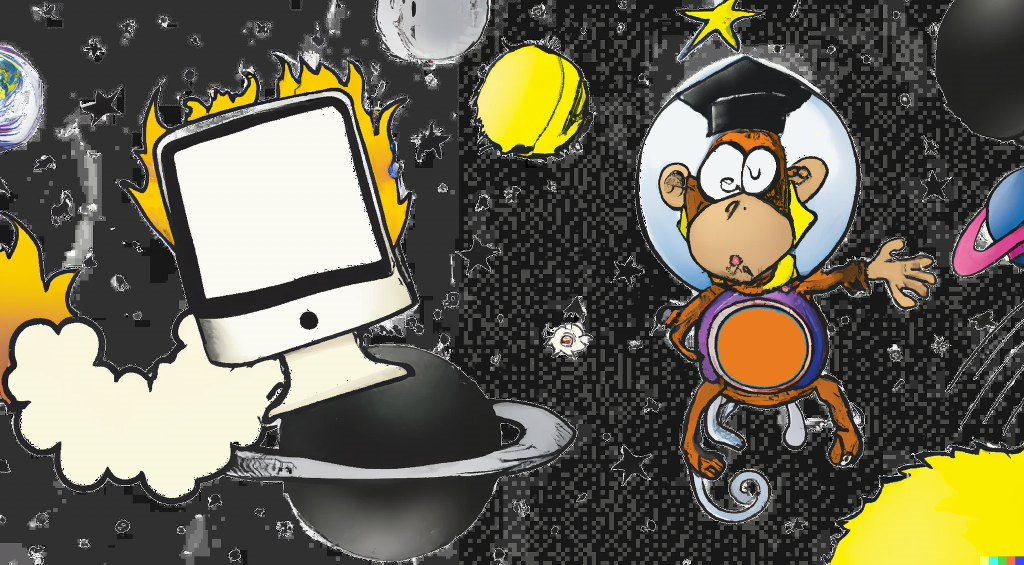
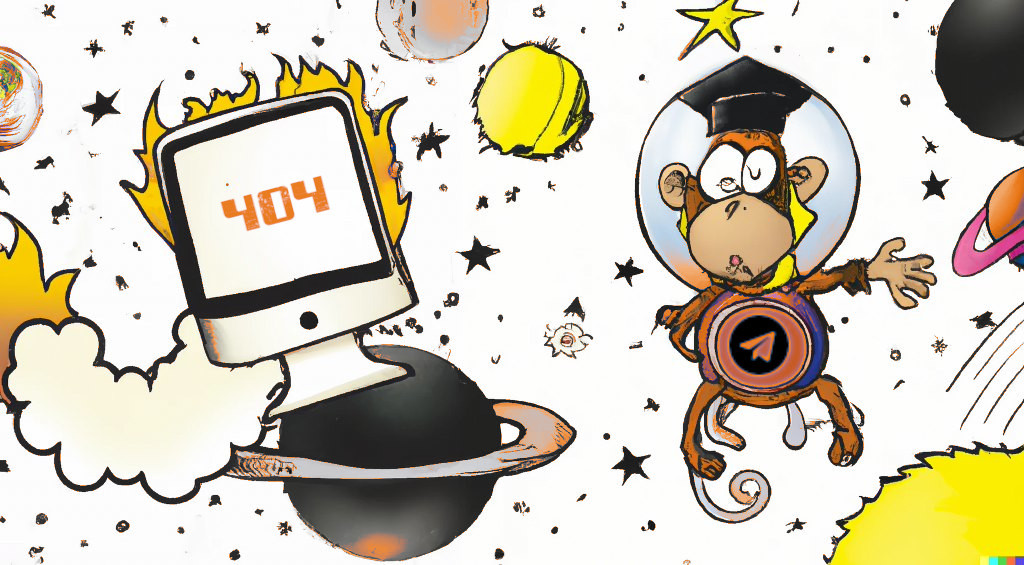
404

diff --git a/css/errorpage.css b/css/errorpage.css
@@ -1,5 +1,5 @@
 @import url('https://fonts.googleapis.com/css2?family=Montserrat:wght@200;400');
-
+@import url('https://fonts.googleapis.com/css2?family=Fredoka+One&family=Roboto+Slab&display=swap');
 * {
     padding: 0;
     margin: 0;
@@ -10,43 +10,43 @@ html {
     font-size: 16px;
 }
 
-
 body {
-    font-family: 'Montserrat', sans-serif;
-    background-color: #87a933;
-    background: linear-gradient(to bottom right, #333538, rgba(105, 97, 97, 0.3));
+    font-family: 'Roboto Slab', sans-serif;
+    /*background-color: #87a933;*/
+    /*background: linear-gradient(to bottom right, #333538, rgba(105, 97, 97, 0.3));*/
     color: #c0561b;
     height: 100vh;
     display: flex;
-    align-items: center;
+    flex-direction: row;
+    align-items: flex-end;
     justify-content: center;
     text-align: center;
-    background-image: url("/pictures/aap.png");
+    background-image: url("/pictures/aap_mid.jpg");
     background-repeat: no-repeat;
+    background-size: cover;
+    background-position: left top;
+}
 
+main{
+    display: flex;
+    flex-direction: column;
+    align-items: center;
 }
 
 h1 {
     font-size: 6rem;
     font-weight: 200;
-}
+    background-color: rgba(0, 0, 0, 0.84);
+    border-radius: 50px;}
 
 h2 {
     font-size: .8rem;
     font-weight: 400;
-    display: inline-block;
     padding: .5rem;
-    background-color: #87a933;
-    border: 3px solid rgb(38, 38, 38);
+    background-color: rgba(135, 169, 51, 0.86);
+    border: 1px solid rgb(38, 38, 38);
+    color: #ffffff;
     transform: translateY(-2.5rem);
-}
-
-img{
-    display: block;
-    width: 80px;
-    height: 80px;
-    transform: translateY(-160px) translateX(-30px) rotate(-46deg);
-    background-color: rgba(255, 255, 255, 0);
 }
 
 @media screen and (min-width: 480px) {
@@ -59,11 +59,8 @@ img{
         transform: translateY(-4rem);
     }
 
-    img{
-        width: 100px;
-        height: 100px;
-        transform: translateY(-230px) translateX(-25px) rotate(-40deg);
-    }
+
+
 
 }
 
@@ -77,10 +74,10 @@ img{
         transform: translateY(-6rem);
     }
 
-    img{
-        width: 150px;
-        height: 150px;
-        transform: translateY(-365px) translateX(-25px) rotate(-30deg);
+
+
+    body{
+        background-image: url("/pictures/aap.jpg");
     }
 
 }

diff --git a/404.html b/404.html
@@ -11,7 +11,7 @@
   <main>
     <h1>OOPS!</h1>
     <h2>404 - The Page can't be found</h2>
-    <img src="/pictures/muts.png" alt="muts">
+
   </main>
 
 </body>
